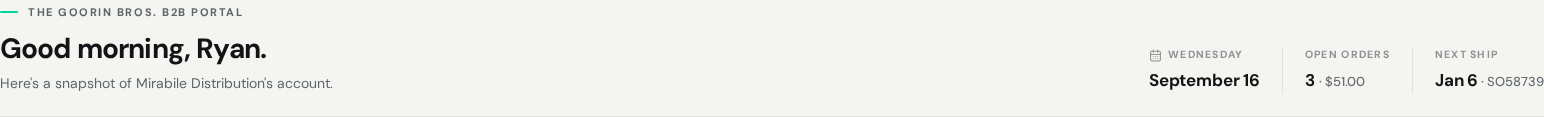
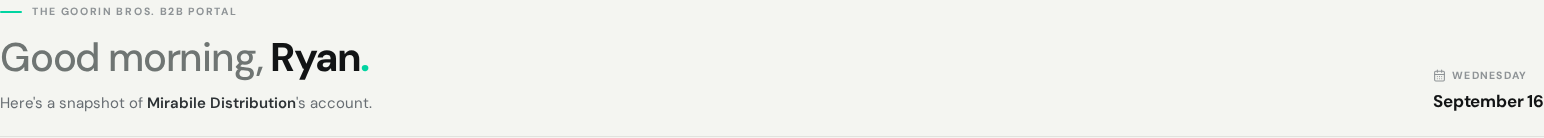
## Greeting Refined - Overview hero: two-tone greeting (muted "Good morning," + bold name + green accent period), larger type, company name emphasized in the subtitle; right side back to the date only as requested. Verified via screenshot. - Next Action Items:   - **Cart Persistence**: Keep the cart
Emergent-Commit-Key: 1d413121e68873a0e017a510b95ddc9c142744b3cd6e2e2a6d208e634eaaa37d

diff --git a/frontend/src/DashboardPage.tsx b/frontend/src/DashboardPage.tsx
@@ -773,8 +773,6 @@ export default function DashboardPage({ name, onNavigate }: Props) {
   const delta = Math.round(((spendTotal - lastYear) / lastYear) * 100);
   const balanceShown = useCountUp(openAmount);
   const now = new Date();
-  const sortedOpen = [...openOrders].sort((a, b) => a.shipDate.localeCompare(b.shipDate));
-  const nextShip = sortedOpen.find((o) => o.shipDate >= new Date().toISOString().slice(0, 10)) ?? sortedOpen[0];
   const todayParts = { weekday: now.toLocaleDateString('en-US', { weekday: 'long' }), day: now.toLocaleDateString('en-US', { month: 'long', day: 'numeric' }), year: String(now.getFullYear()) };
 
   const actions = [
@@ -791,13 +789,11 @@ export default function DashboardPage({ name, onNavigate }: Props) {
       <header className="dash-hero dash-reveal">
         <div>
           <p className="dash-eyebrow"><i />The Goorin Bros. B2B Portal</p>
-          <h1 data-testid="dashboard-greeting">{greeting()}, <em>{name}</em>.</h1>
-          <p className="dash-sub">Here's a snapshot of Mirabile Distribution's account.</p>
+          <h1 data-testid="dashboard-greeting"><span>{greeting()},</span> <em>{name}</em><b>.</b></h1>
+          <p className="dash-sub">Here's a snapshot of <strong>Mirabile Distribution</strong>'s account.</p>
         </div>
         <dl className="dash-hero-strip" data-testid="dashboard-strip">
           <div data-testid="dashboard-date"><dt><CalendarDays /> {todayParts.weekday}</dt><dd>{todayParts.day}</dd></div>
-          <div data-testid="dashboard-open-orders"><dt>Open orders</dt><dd>{openOrders.length} <span>· {money(openAmount)}</span></dd></div>
-          <div data-testid="dashboard-next-ship"><dt>Next ship</dt><dd>{nextShip ? new Date(`${nextShip.shipDate}T12:00:00`).toLocaleDateString('en-US', { month: 'short', day: 'numeric' }) : '—'}{nextShip && <span> · {nextShip.id}</span>}</dd></div>
         </dl>
       </header>
 

diff --git a/frontend/src/dashboard.css b/frontend/src/dashboard.css
@@ -315,3 +315,13 @@
 .dash-hero-strip dd span { font-size: 13px; font-weight: 500; color: #686e73; letter-spacing: 0; }
 @media (max-width: 900px) { .dash-hero { flex-direction: column; align-items: flex-start; gap: 16px; } .dash-hero-strip { width: 100%; justify-content: flex-start; } .dash-hero-strip div { flex: 1; padding: 0 14px; } .dash-hero-strip dd { font-size: 15px; } }
 @media (max-width: 760px) { .dash-hero-strip div { padding: 0 12px; } .dash-hero-strip div:first-child { padding-left: 0; } .dash-hero-strip dd span { display: none; } }
+/* ── Greeting refinement ────────────────────────────────── */
+.dash-hero .dash-eyebrow { margin-bottom: 14px; font-size: 10.5px; letter-spacing: .16em; color: #8e9396; }
+.dash-hero .dash-eyebrow i { width: 22px; }
+.dash-hero h1 { font-size: clamp(30px, 2.8vw, 40px) !important; line-height: 1.05; letter-spacing: -.035em; }
+.dash-hero h1 span { color: #6f7573; font-weight: 500; }
+.dash-hero h1 em { color: #121415; }
+.dash-hero h1 b { color: var(--accent); font-weight: 700; }
+.dash-hero .dash-sub { margin-top: 12px; font-size: 15px; color: #686e73; }
+.dash-hero .dash-sub strong { color: #2d3235; font-weight: 600; }
+@media (max-width: 760px) { .dash-hero h1 { font-size: 28px !important; } .dash-hero .dash-sub { font-size: 14px; margin-top: 8px; } .dash-hero .dash-eyebrow { margin-bottom: 10px; } }

diff --git a/memory/PRD.md b/memory/PRD.md
@@ -78,3 +78,4 @@ Original request: port attached Vite/TS Bolt project into CRA env as a pixel-per
 - 2026-06: Shipment detail v3.1 refinement — hero: eyebrow w/ SO#, factory/created/mode sub line, fact strip w/ dividers + captions, flat stage rail (24px nodes) + footer "Stage N of 7 · %" + NEXT chip; hero tightened to ~370px per user. Overview: line filter (lines-search, footer "N of 100"), doc tiles w/ sizes, help card. Booking: key/value rows, upload header; Payment card: split bar + 2-row schedule (paid / Net 60). Conversation: avatars (GO/RM), bubble tails, autoscroll, message count. Documents: doc meta, COO state line. Activity: icon timeline w/ details. Test iteration_15 all pass.
 - 2026-06: Shipment detail tabs → segmented white pill bar w/ lucide icons, active tab solid ink, count badges; fixed leftover underline (::after) and schedule/note spacing on Payment card.
 - 2026-06: Overview hero: lone date block replaced by dash-hero-strip (Weekday · Month day | Open orders N · $ | Next ship date · SO#), testids dashboard-date/dashboard-open-orders/dashboard-next-ship; stacks under greeting ≤900px.
+- 2026-06: Overview hero strip trimmed to date only (per user), greeting refined: two-tone h1 (muted greeting / bold name / accent period, 40px), company bold in sub.
